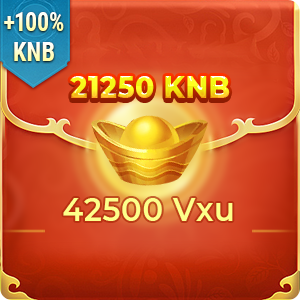
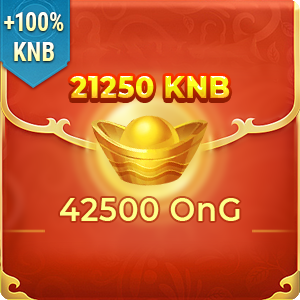
update OnG

diff --git a/chongoivxu.html b/chongoivxu.html
@@ -3,7 +3,7 @@
 <head>
 	<meta charset="utf-8">
 	<meta name="viewport" content="width=device-width, initial-scale=1.0">
-	<title>Chọn Gói Vxu</title>
+	<title>Chọn Gói OnG</title>
 	<link rel="icon" href="images/favicon.png" type="image/png" sizes="32x32">
 	<link rel="stylesheet" href="https://cdnjs.cloudflare.com/ajax/libs/font-awesome/4.7.0/css/font-awesome.min.css">
 	<link href="https://cdn.jsdelivr.net/npm/bootstrap@5.0.2/dist/css/bootstrap.min.css" rel="stylesheet" integrity="sha384-EVSTQN3/azprG1Anm3QDgpJLIm9Nao0Yz1ztcQTwFspd3yD65VohhpuuCOmLASjC" crossorigin="anonymous">
@@ -39,7 +39,7 @@
 								<img src="images/ava.jpg" alt="" class="avauser" />
 								<div class="userinfo">
 									<span class="username">Alisaaliba</span>
-									<span class="gold">500.000 iXu</span>
+									<span class="gold">500.000 OnG</span>
 								</div>
 							</div>
 							<a href="#" class="btnlist" role="button" id="dropdownMenuLink" data-bs-toggle="dropdown" aria-expanded="false"><i class="fa fa-bars" aria-hidden="true"></i></a>
@@ -57,9 +57,9 @@
 		<section class="userinfogame">
 			<div class="container">
 				<div class="infogame">
-					<img src="images/napvxu.jpg" alt="" class="avauserinfo" />
+					<img src="images/napmoi.png" alt="" class="avauserinfo" />
 					<div class="infousermain">
-						<span class="gamename">Nạp Vxu</span>
+						<span class="gamename">Nạp OnG</span>
 						<span class="servergame">Tài khoản: gg_10171...</span>
 						<span class="nhanvat">UID: 2680000173</span>
 					</div>
@@ -70,7 +70,7 @@
 			<div class="offcanvas offcanvas-bottom" tabindex="-1" id="offcanvasBottom2" aria-labelledby="offcanvasBottomLabel2">
 				  <div class="offcanvas-header">
 					<div class="container1">
-						<h5 class="offcanvas-title" id="offcanvasBottomLabel2">Gói xx Vxu</h5>
+						<h5 class="offcanvas-title" id="offcanvasBottomLabel2">Gói xx OnG</h5>
 						<button type="button" class="btn-close text-reset" data-bs-dismiss="offcanvas" aria-label="Close"></button>
 					</div>
 				  </div>
@@ -80,7 +80,7 @@
 							<tbody>
 								<tr>
 								  <td>Mô tả:</td>
-								  <td>Nạp xx Vxu vào tài khoản gg_101719508648674476696</td>
+								  <td>Nạp xx OnG vào tài khoản gg_101719508648674476696</td>
 								</tr>
 							  </tbody>
 						</table>
@@ -147,118 +147,118 @@
 			<h4 class="title-goinap">Gói nạp</h4>
 			<div class="maincontent">
 				<div class="tab-content" id="pills-tabContent">
-					<div class="tab-pane goivxu fade show active" id="tab1C">
+					<div class="tab-pane goiOnG fade show active" id="tab1C">
 						<div class="container">
 							<div class="row">
 								<div class="col-sm-3 col-6">
 									<div class="card">
 										<a href="#" type="button" data-bs-toggle="offcanvas" data-bs-target="#offcanvasBottom2" aria-controls="offcanvasBottom2">
-											<img src="images/goivxu/10k.jpg" class="img-icongames" alt=""/>
-											<span class="titlegame">85 Vxu</span>
+											<img src="images/goiOnG/10k.jpg" class="img-icongames" alt=""/>
+											<span class="titlegame">85 OnG</span>
 										</a>
 									</div>
 								</div>
 								<div class="col-sm-3 col-6  ">
 									<div class="card">
 										<a href="#" type="button" data-bs-toggle="offcanvas" data-bs-target="#offcanvasBottom" aria-controls="offcanvasBottom">
-											<img src="images/goivxu/20k.jpg" class="img-icongames" alt=""/>
-											<span class="titlegame">170 Vxu</span>
+											<img src="images/goiOnG/20k.jpg" class="img-icongames" alt=""/>
+											<span class="titlegame">170 OnG</span>
 										</a>
 									</div>
 								</div>
 								<div class="col-sm-3 col-6  ">
 									<div class="card">
 										<a href="#" type="button" data-bs-toggle="offcanvas" data-bs-target="#offcanvasBottom" aria-controls="offcanvasBottom">
-											<img src="images/goivxu/30k.jpg" class="img-icongames" alt=""/>
-											<span class="titlegame">255 Vxu</span>
+											<img src="images/goiOnG/30k.jpg" class="img-icongames" alt=""/>
+											<span class="titlegame">255 OnG</span>
 										</a>
 									</div>
 								</div>
 								<div class="col-sm-3 col-6">
 									<div class="card">
 										<a href="#" type="button" data-bs-toggle="offcanvas" data-bs-target="#offcanvasBottom" aria-controls="offcanvasBottom">
-											<img src="images/goivxu/50k.jpg" class="img-icongames" alt=""/>
-											<span class="titlegame">425 Vxu</span>
+											<img src="images/goiOnG/50k.jpg" class="img-icongames" alt=""/>
+											<span class="titlegame">425 OnG</span>
 										</a>
 									</div>
 								</div>
 								<div class="col-sm-3 col-6">
 									<div class="card">
 										<a href="#" type="button" data-bs-toggle="offcanvas" data-bs-target="#offcanvasBottom" aria-controls="offcanvasBottom">
-											<img src="images/goivxu/100k.jpg" class="img-icongames" alt=""/>
-											<span class="titlegame">850 Vxu</span>
+											<img src="images/goiOnG/100k.jpg" class="img-icongames" alt=""/>
+											<span class="titlegame">850 OnG</span>
 										</a>
 									</div>
 								</div>
 								<div class="col-sm-3 col-6">
 									<div class="card">
 										<a href="#" type="button" data-bs-toggle="offcanvas" data-bs-target="#offcanvasBottom" aria-controls="offcanvasBottom">
-											<img src="images/goivxu/200k.jpg" class="img-icongames" alt=""/>
-											<span class="titlegame">1700 Vxu</span>
+											<img src="images/goiOnG/200k.jpg" class="img-icongames" alt=""/>
+											<span class="titlegame">1700 OnG</span>
 										</a>
 									</div>
 								</div>
 								<div class="col-sm-3 col-6">
 									<div class="card">
 										<a href="#" type="button" data-bs-toggle="offcanvas" data-bs-target="#offcanvasBottom" aria-controls="offcanvasBottom">
-											<img src="images/goivxu/300k.jpg" class="img-icongames" alt=""/>
-											<span class="titlegame">2550 Vxu</span>
+											<img src="images/goiOnG/300k.jpg" class="img-icongames" alt=""/>
+											<span class="titlegame">2550 OnG</span>
 										</a>
 									</div>
 								</div>
 								<div class="col-sm-3 col-6">
 									<div class="card">
 										<a href="#" type="button" data-bs-toggle="offcanvas" data-bs-target="#offcanvasBottom" aria-controls="offcanvasBottom">
-											<img src="images/goivxu/500k.jpg" class="img-icongames" alt=""/>
-											<span class="titlegame">4250 Vxu</span>
+											<img src="images/goiOnG/500k.jpg" class="img-icongames" alt=""/>
+											<span class="titlegame">4250 OnG</span>
 										</a>
 									</div>
 								</div>
 								<div class="col-sm-3 col-6">
 									<div class="card">
 										<a href="#" type="button" data-bs-toggle="offcanvas" data-bs-target="#offcanvasBottom" aria-controls="offcanvasBottom">
-											<img src="images/goivxu/1m.jpg" class="img-icongames" alt=""/>
-											<span class="titlegame">8500 Vxu</span>
+											<img src="images/goiOnG/1m.jpg" class="img-icongames" alt=""/>
+											<span class="titlegame">8500 OnG</span>
 										</a>
 									</div>
 								</div>
 								<div class="col-sm-3 col-6">
 									<div class="card">
 										<a href="#" type="button" data-bs-toggle="offcanvas" data-bs-target="#offcanvasBottom" aria-controls="offcanvasBottom">
-											<img src="images/goivxu/2m.jpg" class="img-icongames" alt=""/>
-											<span class="titlegame">17000 Vxu</span>
+											<img src="images/goiOnG/2m.jpg" class="img-icongames" alt=""/>
+											<span class="titlegame">17000 OnG</span>
 										</a>
 									</div>
 								</div>
 								<div class="col-sm-3 col-6">
 									<div class="card">
 										<a href="#" type="button" data-bs-toggle="offcanvas" data-bs-target="#offcanvasBottom" aria-controls="offcanvasBottom">
-											<img src="images/goivxu/5m.jpg" class="img-icongames" alt=""/>
-											<span class="titlegame">42500 Vxu</span>
+											<img src="images/goiOnG/5m.jpg" class="img-icongames" alt=""/>
+											<span class="titlegame">42500 OnG</span>
 										</a>
 									</div>
 								</div>
 								<div class="col-sm-3 col-6">
 									<div class="card">
 										<a href="#" type="button" data-bs-toggle="offcanvas" data-bs-target="#offcanvasBottom" aria-controls="offcanvasBottom">
-											<img src="images/goivxu/10m.jpg" class="img-icongames" alt=""/>
-											<span class="titlegame">42500 Vxu</span>
+											<img src="images/goiOnG/10m.jpg" class="img-icongames" alt=""/>
+											<span class="titlegame">42500 OnG</span>
 										</a>
 									</div>
 								</div>
 								<div class="col-sm-3 col-6">
 									<div class="card">
 										<a href="#" type="button" data-bs-toggle="offcanvas" data-bs-target="#offcanvasBottom" aria-controls="offcanvasBottom">
-											<img src="images/goivxu/20m.jpg" class="img-icongames" alt=""/>
-											<span class="titlegame">42500 Vxu</span>
+											<img src="images/goiOnG/20m.jpg" class="img-icongames" alt=""/>
+											<span class="titlegame">42500 OnG</span>
 										</a>
 									</div>
 								</div>
 								<div class="col-sm-3 col-6">
 									<div class="card">
 										<a href="#" type="button" data-bs-toggle="offcanvas" data-bs-target="#offcanvasBottom" aria-controls="offcanvasBottom">
-											<img src="images/goivxu/50m.jpg" class="img-icongames" alt=""/>
-											<span class="titlegame">42500 Vxu</span>
+											<img src="images/goiOnG/50m.jpg" class="img-icongames" alt=""/>
+											<span class="titlegame">42500 OnG</span>
 										</a>
 									</div>
 								</div>

diff --git a/index-nap-iTap.html b/index-nap-iTap.html
@@ -3,7 +3,7 @@
 <head>
 	<meta charset="utf-8">
 	<meta name="viewport" content="width=device-width, initial-scale=1.0">
-	<title>iTap</title>
+	<title>Vplay</title>
 	<link rel="icon" href="images/favicon.png" type="image/png" sizes="32x32">
 	<link rel="stylesheet" href="https://cdnjs.cloudflare.com/ajax/libs/font-awesome/4.7.0/css/font-awesome.min.css">
 	<link href="https://cdn.jsdelivr.net/npm/bootstrap@5.0.2/dist/css/bootstrap.min.css" rel="stylesheet" integrity="sha384-EVSTQN3/azprG1Anm3QDgpJLIm9Nao0Yz1ztcQTwFspd3yD65VohhpuuCOmLASjC" crossorigin="anonymous">
@@ -80,7 +80,7 @@
 								<img src="images/ava.jpg" alt="" class="avauser" />
 								<div class="userinfo">
 									<span class="username">Alisaaliba</span>
-									<span class="gold">500.000 iXu</span>
+									<span class="gold">500.000 OnG</span>
 								</div>
 							</div>
 							<a href="#" class="btnlist" role="button" id="dropdownMenuLink" data-bs-toggle="dropdown" aria-expanded="false"><i class="fa fa-bars" aria-hidden="true"></i></a>
@@ -176,8 +176,8 @@
 								<div class="col-md-3 col-4">
 									<div class="card">
 										<a href="#" type="button" data-bs-toggle="offcanvas" data-bs-target="#offcanvasBottom" aria-controls="offcanvasBottom">
-											<img src="images/napvxu.jpg" class="img-icongames" alt=""/>
-											<span class="titlegame">Nạp Vxu</span>
+											<img src="images/napmoi.png" class="img-icongames" alt=""/>
+											<span class="titlegame">Nạp OnG</span>
 										</a>
 									</div>
 								</div>

diff --git a/napbank.html b/napbank.html
@@ -42,7 +42,7 @@
 								<img src="images/ava.jpg" alt="" class="avauser" />
 								<div class="userinfo">
 									<span class="username">Alisaaliba</span>
-									<span class="gold">500.000 iXu</span>
+									<span class="gold">500.000 OnG</span>
 								</div>
 							</div>
 							<a href="#" class="btnlist" role="button" id="dropdownMenuLink" data-bs-toggle="dropdown" aria-expanded="false"><i class="fa fa-bars" aria-hidden="true"></i></a>
@@ -85,14 +85,14 @@
 							</tr>
 							<tr>
 							  <td>Mô tả:</td>
-							  <td>Nạp Vxu bằng phương thức chuyển khoản trực tiếp, Bạn sẽ nhận được số lượng Vxu tương ứng với số tiền chuyển khoản.
+							  <td>Nạp OnG bằng phương thức chuyển khoản trực tiếp, Bạn sẽ nhận được số lượng OnG tương ứng với số tiền chuyển khoản.
                               </td>
 							</tr>
 						  </tbody>
 					</table>
 				</div>
             </div>
-            <h5 class="titlegoi title2">Hãy chuyển khoản theo các thông tin bên dưới để nạp Vxu</h5>
+            <h5 class="titlegoi title2">Hãy chuyển khoản theo các thông tin bên dưới để nạp OnG</h5>
 			<div class="maincontent sms">
 				<div class="container">
 					<p>

diff --git a/chongoinap.html b/chongoinap.html
@@ -42,7 +42,7 @@
 								<img src="images/ava.jpg" alt="" class="avauser" />
 								<div class="userinfo">
 									<span class="username">Alisaaliba</span>
-									<span class="gold">500.000 iXu</span>
+									<span class="gold">500.000 OnG</span>
 								</div>
 							</div>
 							<a href="#" class="btnlist" role="button" id="dropdownMenuLink" data-bs-toggle="dropdown" aria-expanded="false"><i class="fa fa-bars" aria-hidden="true"></i></a>

diff --git a/huongdan.html b/huongdan.html
@@ -41,7 +41,7 @@
 								<img src="images/ava.jpg" alt="" class="avauser" />
 								<div class="userinfo">
 									<span class="username">Alisaaliba</span>
-									<span class="gold">500.000 iXu</span>
+									<span class="gold">500.000 OnG</span>
 								</div>
 							</div>
 							<a href="#" class="btnlist" role="button" id="dropdownMenuLink" data-bs-toggle="dropdown" aria-expanded="false"><i class="fa fa-bars" aria-hidden="true"></i></a>

diff --git a/huongdannapthe.html b/huongdannapthe.html
@@ -41,7 +41,7 @@
 								<img src="images/ava.jpg" alt="" class="avauser" />
 								<div class="userinfo">
 									<span class="username">Alisaaliba</span>
-									<span class="gold">500.000 iXu</span>
+									<span class="gold">500.000 OnG</span>
 								</div>
 							</div>
 							<a href="#" class="btnlist" role="button" id="dropdownMenuLink" data-bs-toggle="dropdown" aria-expanded="false"><i class="fa fa-bars" aria-hidden="true"></i></a>

diff --git a/lichsunap.html b/lichsunap.html
@@ -41,7 +41,7 @@
 								<img src="images/ava.jpg" alt="" class="avauser" />
 								<div class="userinfo">
 									<span class="username">Alisaaliba</span>
-									<span class="gold">500.000 iXu</span>
+									<span class="gold">500.000 OnG</span>
 								</div>
 							</div>
 							<a href="#" class="btnlist" role="button" id="dropdownMenuLink" data-bs-toggle="dropdown" aria-expanded="false"><i class="fa fa-bars" aria-hidden="true"></i></a>

diff --git a/thanhtoan-giaodichthanhcong.html b/thanhtoan-giaodichthanhcong.html
@@ -42,7 +42,7 @@
 								<img src="images/ava.jpg" alt="" class="avauser" />
 								<div class="userinfo">
 									<span class="username">Alisaaliba</span>
-									<span class="gold">500.000 iXu</span>
+									<span class="gold">500.000 OnG</span>
 								</div>
 							</div>
 							<a href="#" class="btnlist" role="button" id="dropdownMenuLink" data-bs-toggle="dropdown" aria-expanded="false"><i class="fa fa-bars" aria-hidden="true"></i></a>

diff --git a/thanhtoan-giaodichthatbai.html b/thanhtoan-giaodichthatbai.html
@@ -41,7 +41,7 @@
 								<img src="images/ava.jpg" alt="" class="avauser" />
 								<div class="userinfo">
 									<span class="username">Alisaaliba</span>
-									<span class="gold">500.000 iXu</span>
+									<span class="gold">500.000 OnG</span>
 								</div>
 							</div>
 							<a href="#" class="btnlist" role="button" id="dropdownMenuLink" data-bs-toggle="dropdown" aria-expanded="false"><i class="fa fa-bars" aria-hidden="true"></i></a>

diff --git a/thanhtoan-ixu.html b/thanhtoan-ixu.html
@@ -43,7 +43,7 @@
 								<img src="images/ava.jpg" alt="" class="avauser" />
 								<div class="userinfo">
 									<span class="username">Alisaaliba</span>
-									<span class="gold">500.000 iXu</span>
+									<span class="gold">500.000 OnG</span>
 								</div>
 							</div>
 							<a href="#" class="btnlist" role="button" id="dropdownMenuLink" data-bs-toggle="dropdown" aria-expanded="false"><i class="fa fa-bars" aria-hidden="true"></i></a>

diff --git a/thanhtoan-sms-check.html b/thanhtoan-sms-check.html
@@ -41,7 +41,7 @@
 								<img src="images/ava.jpg" alt="" class="avauser" />
 								<div class="userinfo">
 									<span class="username">Alisaaliba</span>
-									<span class="gold">500.000 iXu</span>
+									<span class="gold">500.000 OnG</span>
 								</div>
 							</div>
 							<a href="#" class="btnlist" role="button" id="dropdownMenuLink" data-bs-toggle="dropdown" aria-expanded="false"><i class="fa fa-bars" aria-hidden="true"></i></a>

diff --git a/thanhtoan-sms.html b/thanhtoan-sms.html
@@ -42,7 +42,7 @@
 								<img src="images/ava.jpg" alt="" class="avauser" />
 								<div class="userinfo">
 									<span class="username">Alisaaliba</span>
-									<span class="gold">500.000 iXu</span>
+									<span class="gold">500.000 OnG</span>
 								</div>
 							</div>
 							<a href="#" class="btnlist" role="button" id="dropdownMenuLink" data-bs-toggle="dropdown" aria-expanded="false"><i class="fa fa-bars" aria-hidden="true"></i></a>
